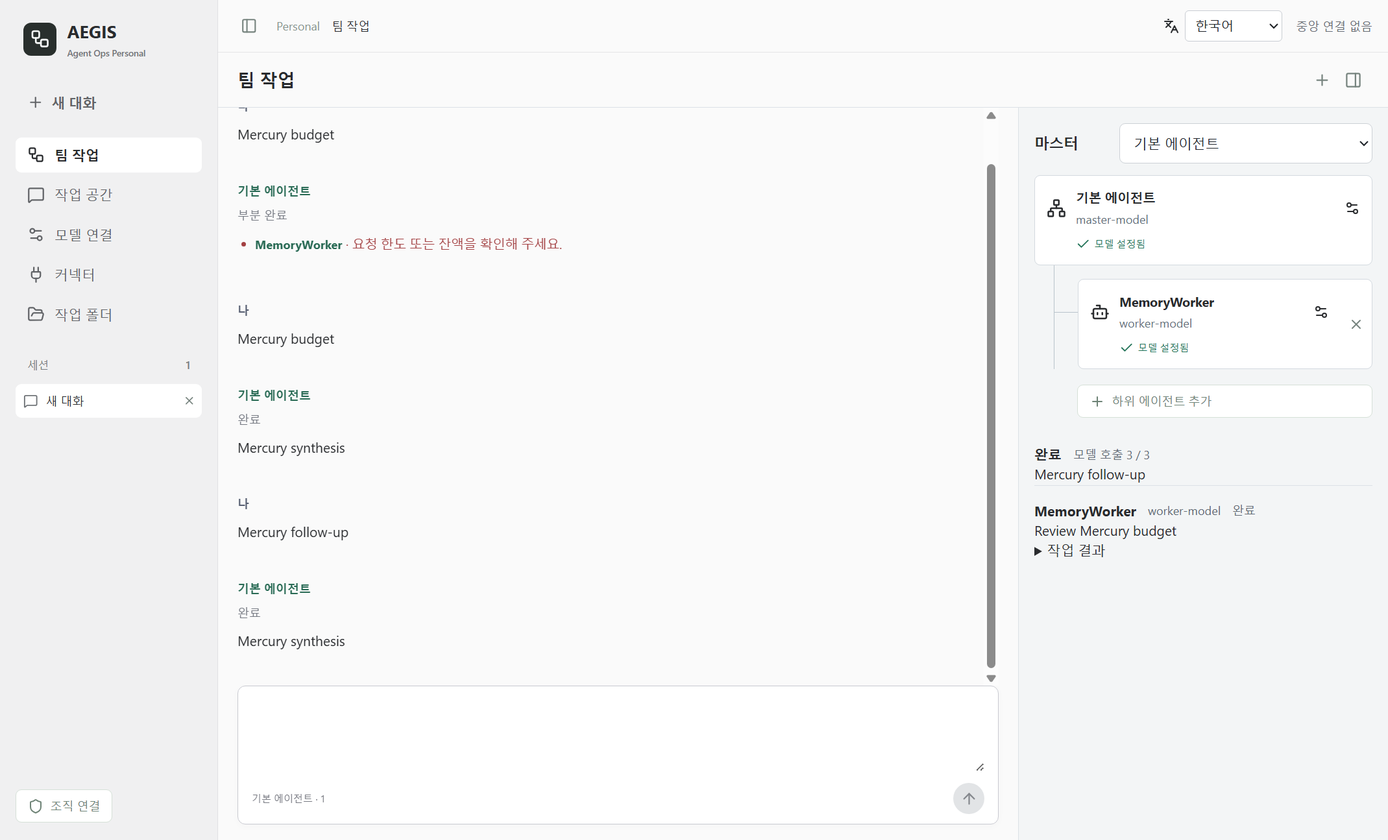
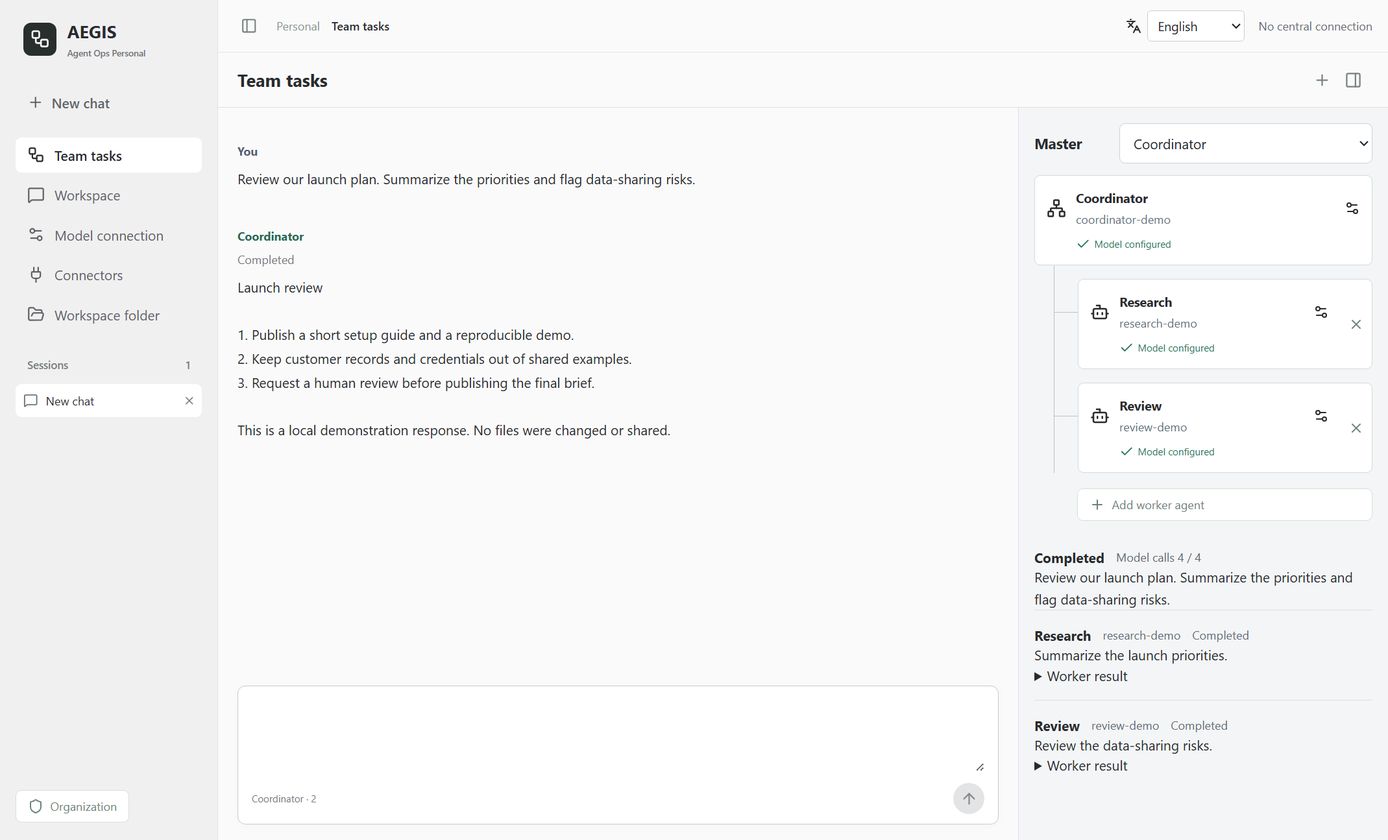
release: English product screenshots and non-preview desktop branding 0.5.13

diff --git a/README.ko.md b/README.ko.md
@@ -1,11 +1,11 @@
 # AEGIS Agent Ops Personal
 
-[![Windows checks](https://github.com/aegisintelmetry/agent-ops-public-preview/actions/workflows/desktop-checks.yml/badge.svg)](https://github.com/aegisintelmetry/agent-ops-public-preview/actions/workflows/desktop-checks.yml)
+[![Windows checks](https://github.com/aegisintelmetry/agent-ops-personal/actions/workflows/desktop-checks.yml/badge.svg)](https://github.com/aegisintelmetry/agent-ops-personal/actions/workflows/desktop-checks.yml)
 [![License: Apache-2.0](https://img.shields.io/badge/License-Apache--2.0-green.svg)](LICENSE)
 
 **내 모델로 구성하는 에이전트 팀, 직접 선택하는 메모리.**
 
-[English](README.md) | [Windows 다운로드](https://github.com/aegisintelmetry/agent-ops-public-preview/releases/tag/v0.5.12-preview) | [보안 신고](SECURITY.md)
+[English](README.md) | [Windows 다운로드](https://github.com/aegisintelmetry/agent-ops-personal/releases/tag/v0.5.13) | [보안 신고](SECURITY.md)
 
 여러 언어 모델과 대화하고, 텍스트 작업을 에이전트 팀으로 나누고, 필요한 기억을 직접 관리하는 **AEGIS의 오픈소스 데스크톱 프로젝트**입니다.
 
@@ -13,7 +13,7 @@
 
 ![팀 대화와 마스터·작업자 트리](docs/assets/team-workspace.png)
 
-*자동 UI 시험에서 촬영한 실제 앱 화면입니다. 이름·모델 ID·응답과 한도 오류는 합성 테스트 데이터이며, 실제 공급자 응답이나 성능 측정 결과가 아닙니다.*
+*자동 UI 시험에서 촬영한 실제 앱 화면입니다. 이름·모델 ID·응답은 합성 테스트 데이터이며, 실제 공급자 응답이나 성능 측정 결과가 아닙니다.*
 
 ## 목차
 
@@ -45,13 +45,13 @@
 
 ## 설치와 시작
 
-1. [릴리스 페이지](https://github.com/aegisintelmetry/agent-ops-public-preview/releases/tag/v0.5.12-preview)에서 `AEGIS-Agent-Ops-Setup-0.5.12-preview.exe`를 내려받습니다.
+1. [릴리스 페이지](https://github.com/aegisintelmetry/agent-ops-personal/releases/tag/v0.5.13)에서 `AEGIS-Agent-Ops-Setup-0.5.13.exe`를 내려받습니다.
 2. Windows x64에 설치하고 **Personal**을 선택합니다.
 3. 에이전트의 모델 연결을 설정한 뒤 대화하거나 팀을 구성합니다.
 
 설치본은 로컬 코어를 포함하므로 실행을 위해 Python·Node를 별도로 설치할 필요는 없습니다. Codex 연결에는 별도의 Codex CLI 또는 VS Code Codex 확장이 필요합니다.
 
-**미서명 프리뷰입니다.** 중요한 업무나 민감한 정보에 사용하기 전에 아래 제한을 확인해 주세요.
+**Windows 설치 파일은 미서명입니다.** 중요한 업무나 민감한 정보에 사용하기 전에 아래 제한을 확인해 주세요.
 
 현재 배포 대상은 Windows x64입니다. macOS·Linux 설치본은 제공하거나 검증하지 않았습니다. Personal에는 중앙 MCP 서버, 조직 등록, AEGIS 구독이 필요하지 않습니다. 사용 가능한 모델 연결은 직접 준비해야 하며 공급자 이용료는 앱에 포함되지 않습니다.
 
@@ -209,7 +209,7 @@ npm start
 powershell -NoProfile -File apps/desktop/build-windows.ps1
 ```
 
-버그 재현, 작은 범위의 개선 PR, 실제로 유용했던 작업 사례를 환영합니다. [기여 안내](CONTRIBUTING.md)와 [Windows CI](https://github.com/aegisintelmetry/agent-ops-public-preview/actions/workflows/desktop-checks.yml)를 참고하세요.
+버그 재현, 작은 범위의 개선 PR, 실제로 유용했던 작업 사례를 환영합니다. [기여 안내](CONTRIBUTING.md)와 [Windows CI](https://github.com/aegisintelmetry/agent-ops-personal/actions/workflows/desktop-checks.yml)를 참고하세요.
 
 ## 문서와 다음 단계
 
@@ -219,13 +219,13 @@ powershell -NoProfile -File apps/desktop/build-windows.ps1
 | [Google 연결](docs/personal-google-accounts.md) | Desktop OAuth 설정과 인증 정보 경계 |
 | [모듈 경계](docs/core-boundary.md) | 공개 제품과 비공개 운영의 구분 |
 | [기여 안내](CONTRIBUTING.md) | 개발과 안전한 이슈·PR 작성 |
-| [릴리스 점검](docs/public-release.md) | 프리뷰 검증과 남은 운영 확인 |
+| [릴리스 점검](docs/public-release.md) | 릴리스 검증과 남은 운영 확인 |
 | [공개 이력](docs/public-history.md) | 제품 이력을 선별한 이유 |
 | [보안 정책](SECURITY.md) | 비공개 취약점 신고 |
 
-우선 검증 대상은 새 PC 설치와 실제 공급자·계정 연결이며, 특히 Google OAuth의 실제 사용 흐름을 확인해야 합니다. 대화 영속 저장·커넥터 확장·도구 실행은 이후 검토할 수 있는 방향이지 **이번 프리뷰의 제공 기능이나 출시 일정 약속이 아닙니다.** 외부 쓰기 작업을 허용하기 전에 권한과 데이터 전달 경계를 설계해야 합니다.
+우선 검증 대상은 새 PC 설치와 실제 공급자·계정 연결이며, 특히 Google OAuth의 실제 사용 흐름을 확인해야 합니다. 대화 영속 저장·커넥터 확장·도구 실행은 이후 검토할 수 있는 방향이지 **이번 릴리스의 제공 기능이나 출시 일정 약속이 아닙니다.** 외부 쓰기 작업을 허용하기 전에 권한과 데이터 전달 경계를 설계해야 합니다.
 
-`docs/`의 이전 구현 기록은 각각의 개발 단계를 설명합니다. 현재 프리뷰의 범위는 이 README를 기준으로 하며 과거 시험 개수나 잔여 작업 목록은 현재 지원표가 아닙니다.
+`docs/`의 이전 구현 기록은 각각의 개발 단계를 설명합니다. 현재 릴리스의 범위는 이 README를 기준으로 하며 과거 시험 개수나 잔여 작업 목록은 현재 지원표가 아닙니다.
 
 ## 이력과 공개 범위
 
@@ -237,7 +237,7 @@ powershell -NoProfile -File apps/desktop/build-windows.ps1
 
 ## 보안과 라이선스
 
-**초기 테스트·개발 참여자를 모집합니다.** [참여 안내](docs/community-invitation.md)를 읽고 [Discussions](https://github.com/aegisintelmetry/agent-ops-public-preview/discussions)에서 질문과 보안·통제 설계 의견을 나눠 주세요. 계획 중인 권한·감사 기능은 현재 제공 보장이 아닙니다. [행동강령](CODE_OF_CONDUCT.md)을 지켜 주세요.
+**초기 테스트·개발 참여자를 모집합니다.** [참여 안내](docs/community-invitation.md)를 읽고 [Discussions](https://github.com/aegisintelmetry/agent-ops-personal/discussions)에서 질문과 보안·통제 설계 의견을 나눠 주세요. 계획 중인 권한·감사 기능은 현재 제공 보장이 아닙니다. [행동강령](CODE_OF_CONDUCT.md)을 지켜 주세요.
 
 취약점은 공개 이슈 대신 **contact@aegistelemetry.com**으로 비공개 신고해 주세요. 키·토큰·개인 대화를 첨부하지 마세요. [보안 정책](SECURITY.md)을 확인하세요.
 

diff --git a/README.md b/README.md
@@ -1,11 +1,11 @@
 # AEGIS Agent Ops Personal
 
-[![Windows checks](https://github.com/aegisintelmetry/agent-ops-public-preview/actions/workflows/desktop-checks.yml/badge.svg)](https://github.com/aegisintelmetry/agent-ops-public-preview/actions/workflows/desktop-checks.yml)
+[![Windows checks](https://github.com/aegisintelmetry/agent-ops-personal/actions/workflows/desktop-checks.yml/badge.svg)](https://github.com/aegisintelmetry/agent-ops-personal/actions/workflows/desktop-checks.yml)
 [![License: Apache-2.0](https://img.shields.io/badge/License-Apache--2.0-green.svg)](LICENSE)
 
 **Your models. A visible agent team. Memory you choose.**
 
-[한국어](README.ko.md) | [Windows download](https://github.com/aegisintelmetry/agent-ops-public-preview/releases/tag/v0.5.12-preview) | [Security](SECURITY.md)
+[한국어](README.ko.md) | [Windows download](https://github.com/aegisintelmetry/agent-ops-personal/releases/tag/v0.5.13) | [Security](SECURITY.md)
 
 An open-source desktop project by **AEGIS** for working with multiple language models, coordinating text-based agent teams, and keeping explicit local memory.
 
@@ -13,7 +13,7 @@ An open-source desktop project by **AEGIS** for working with multiple language m
 
 ![Team conversation and coordinator/worker tree](docs/assets/team-workspace.png)
 
-*Actual desktop UI captured by an automated test. Names, model IDs, responses, and the quota failure are synthetic fixtures, not live provider results or a performance benchmark.*
+*Actual desktop UI captured by an automated test. Names, model IDs, and responses are synthetic fixtures, not live provider results or a performance benchmark.*
 
 ## Contents
 
@@ -46,7 +46,7 @@ For example, one worker can analyze a proposal while another critiques its assum
 
 ## Install
 
-Download `AEGIS-Agent-Ops-Setup-0.5.12-preview.exe` from the [release page](https://github.com/aegisintelmetry/agent-ops-public-preview/releases/tag/v0.5.12-preview).
+Download `AEGIS-Agent-Ops-Setup-0.5.13.exe` from the [release page](https://github.com/aegisintelmetry/agent-ops-personal/releases/tag/v0.5.13).
 
 1. Install on Windows x64 and open the app.
 2. Choose **Personal**. No AEGIS organization account or central server is required.
@@ -54,7 +54,7 @@ Download `AEGIS-Agent-Ops-Setup-0.5.12-preview.exe` from the [release page](http
 
 The installer bundles the local core; a separate Python or Node installation is not required to run it. The Codex connection requires a separately installed Codex CLI or VS Code Codex extension.
 
-**This is an unsigned preview**, not a production-ready release.
+**The Windows installer is unsigned.** Review the limitations below before using it for important work or sensitive data.
 
 Windows x64 is the distributed platform. macOS/Linux installers are not provided or validated in this release. Personal does not require a central MCP server, organization enrollment, or an AEGIS subscription. Bring your own eligible provider connection; model usage is not included with the app.
 
@@ -212,7 +212,7 @@ Build an installer from the repository root:
 powershell -NoProfile -File apps/desktop/build-windows.ps1
 ```
 
-See [contributing](CONTRIBUTING.md) and [Windows CI](https://github.com/aegisintelmetry/agent-ops-public-preview/actions/workflows/desktop-checks.yml).
+See [contributing](CONTRIBUTING.md) and [Windows CI](https://github.com/aegisintelmetry/agent-ops-personal/actions/workflows/desktop-checks.yml).
 
 ## Documentation and Next Steps
 
@@ -222,13 +222,13 @@ See [contributing](CONTRIBUTING.md) and [Windows CI](https://github.com/aegisint
 | [Google connections](docs/personal-google-accounts.md) | Desktop OAuth setup and credential boundaries |
 | [Module boundaries](docs/core-boundary.md) | Public product versus private operations |
 | [Contributing](CONTRIBUTING.md) | Development and safe issue/PR preparation |
-| [Release checks](docs/public-release.md) | Preview verification and outstanding operational checks |
+| [Release checks](docs/public-release.md) | Release verification and outstanding operational checks |
 | [Public history](docs/public-history.md) | Why this repository contains selected product history |
 | [Security policy](SECURITY.md) | Private vulnerability reporting |
 
-Near-term validation priorities are fresh-PC installation and real provider/account flows, particularly Google OAuth. Conversation persistence, broader connectors, and tool execution are possible future work, **not features included in this preview or promised release dates**. Permission and data-flow boundaries must be designed before enabling external writes.
+Near-term validation priorities are fresh-PC installation and real provider/account flows, particularly Google OAuth. Conversation persistence, broader connectors, and tool execution are possible future work, **not features included in this release or promised release dates**. Permission and data-flow boundaries must be designed before enabling external writes.
 
-Older implementation notes in `docs/` describe individual development stages. This README describes the current preview; historical test counts and pending items are not a current support matrix.
+Older implementation notes in `docs/` describe individual development stages. This README describes the current release; historical test counts and pending items are not a current support matrix.
 
 ## History and Scope
 
@@ -240,7 +240,7 @@ The source includes `apps/desktop`, the `agent_ops` client/core, and tests. Priv
 
 ## Feedback and Security
 
-**Early testers and contributors welcome:** read our [community invitation](docs/community-invitation.md) and join [Discussions](https://github.com/aegisintelmetry/agent-ops-public-preview/discussions). We are exploring security and control features openly; planned permissions and audit capabilities are not shipped guarantees. Please follow the [code of conduct](CODE_OF_CONDUCT.md).
+**Early testers and contributors welcome:** read our [community invitation](docs/community-invitation.md) and join [Discussions](https://github.com/aegisintelmetry/agent-ops-personal/discussions). We are exploring security and control features openly; planned permissions and audit capabilities are not shipped guarantees. Please follow the [code of conduct](CODE_OF_CONDUCT.md).
 
 Bug reports, focused pull requests, and useful real-world workflows are welcome. Include the app version, Windows version, and reproduction steps without credentials or private conversations.
 

diff --git a/apps/desktop/README.md b/apps/desktop/README.md
@@ -1,4 +1,4 @@
-# AEGIS Agent Ops Desktop Preview
+# AEGIS Agent Ops Desktop
 
 Windows-first desktop client over the independent `agent_ops` product core. Version 0.5.9 includes
 the Agent Ops workspace layout, centered composer and independent in-memory chat
@@ -15,12 +15,12 @@ It retains 0.4.2's immediate, redacted CLI policy errors instead of silent bridg
 timeouts, and distinguishes central-server input from the returned MCP endpoint.
 It retains 0.4.1's central deployment reporting and bounded service verification.
 It remains an
-unsigned local preview; a clean-PC installation against the real central server
+unsigned desktop build; a clean-PC installation against the real central server
 has not yet been validated.
 
-## Personal Preview
+## Personal
 
-The source preview now starts with a Personal / Enterprise selector. Personal
+The app starts with a Personal / Enterprise selector. Personal
 does not query the central profile registry or start the Python enterprise bridge.
 Enterprise keeps the existing enrollment and runner workflow. A mode switch is a
 local UI preference, not enterprise authentication or a permission grant.
@@ -141,7 +141,7 @@ Build from `apps/desktop` after `npm ci`:
 powershell -NoProfile -File .\build-windows.ps1
 ```
 
-Output: `release/AEGIS-Agent-Ops-Setup-0.5.9-preview.exe` (Windows x64, NSIS).
+Output: `release/AEGIS-Agent-Ops-Setup-0.5.13.exe` (Windows x64, NSIS).
 
 The language selector on the edition screen and app toolbar supports Korean and
 English. The desktop main process owns `userData/ui-preferences.json`; renderer
@@ -155,11 +155,11 @@ Packages include `resources/LICENSE`, `resources/NOTICE`, and the existing
 and history review described in `docs/public-release.md` at the repository root.
 The build uses an isolated `.build-venv`; it does not modify the operational
 Python environment. `-Unpacked` builds only the unpacked application.
-Use `-OutputDirectory release-preview` while another unpacked preview is running.
+Use `-OutputDirectory release-preview` while another unpacked build is running.
 Smoke tests accept its executable path through `BTK_DESKTOP_TEST_EXE`.
 
 - Per-user installation, no elevation or automatic launch after setup. The
-  installer is unsigned; it is a local preview, not a trusted publisher release.
+  installer is unsigned; its publisher identity has not been verified by a code-signing certificate.
 - Electron UI and a frozen Python core are bundled. Installed launch does not
   require Node or Python on PATH, or a development checkout to boot.
 - Existing CLI profiles and workspaces are read in place. No profiles, tokens,
@@ -334,7 +334,7 @@ provider requests. They do not require a separate repository or browser download
   Only the read-only context supplied by the app is available. CLI authentication
   stays local. Auth failures are surfaced, not interpreted as successful replies.
 - Other engines, including Codex, fail closed until their desktop permission
-  adapters are implemented and tested. This preview does not change the master
+  adapters are implemented and tested. This release does not change the master
   runner's model. It is not a remote MASTER conversation.
 - Completed responses are redacted before publication; generation status is live.
   Chat stays in window memory, with no new persistent session authority.
@@ -388,6 +388,6 @@ The shared-core product direction references [Hermes Desktop](https://hermes-age
 Real central enrollment + clean Windows install/uninstall validation, signed
 installer/update delivery, existing-PC migration, shared durable chat sessions,
 additional desktop chat adapters, governed action/approval UI and SSE/A2A console
-integration remain release gates. Building/testing this preview does not deploy
+integration remain release gates. Building/testing this release does not deploy
 to the fleet or register startup on the developer's PC. Central API/schema and
 production prompts remain unchanged.

diff --git a/docs/release-0.5.13.md b/docs/release-0.5.13.md
@@ -1,0 +1,44 @@
+# AEGIS Agent Ops 0.5.13
+
+Open-source desktop release. The Windows installer is unsigned; updates are manual.
+
+## Changes
+
+- English screenshots captured from the real desktop UI, using synthetic local
+  responses rather than live provider or customer data.
+- App, installer and release names no longer use Preview. The installer is
+  `AEGIS-Agent-Ops-Setup-0.5.13.exe` and the app is `AEGIS Agent Ops.exe`.
+- The public repository is now `aegisintelmetry/agent-ops-personal`.
+- Updated public documentation, download links and community messaging.
+- Kept the legacy application identifier and user-data directory for upgrade
+  compatibility. Historical releases retain their original names.
+
+## Verification
+
+- Node: 121 tests passed. Python: 108 tests passed.
+- Nine native UI smoke scripts passed.
+- English screenshots checked at desktop and narrow window sizes, with no
+  horizontal overflow, a visible composer, and no renderer errors.
+- Screenshot responses use four loopback fixture calls; no real model calls.
+- Packaged and installed core startup passed without Node or Python on PATH.
+- On the development PC, an actual NSIS upgrade from 0.5.12 to 0.5.13 passed.
+  The isolated test profile retained agents, models, encrypted key, team, role,
+  memory and language. One loopback request verified key decryption; this is
+  not evidence of a live provider login or pre-existing user settings retention.
+- Installed application and shortcut names no longer contain Preview. The old
+  installation directory is retained when upgrading an existing installation.
+
+## Limits
+
+This release does not add security certification, code signing, or a complete
+enterprise policy engine. The installer remains `NotSigned`. Clean-PC installation
+and actual provider/account flows still require separate validation. Conversations
+remain in memory and are not restored after restarting the app.
+
+## 한국어
+
+- 공개 이미지를 영어 UI로 새로 촬영했습니다. 실제 앱 화면이며 응답은 로컬 시험 데이터입니다.
+- 앱·설치 파일·릴리스 이름에서 Preview 표시를 제거했습니다.
+- 공개 저장소 이름은 `agent-ops-personal`입니다.
+- 기존 앱 식별자와 데이터 경로는 업데이트 호환성을 위해 유지했습니다.
+- 설치 파일은 미서명이며, 보안 인증이나 기업용 정책 엔진 완성을 의미하지 않습니다.

diff --git a/docs/community-invitation.md b/docs/community-invitation.md
@@ -7,7 +7,7 @@ AEGIS Agent Ops Personal은 여러 모델을 연결하면서 에이전트의 권
 AEGIS의 중심은 Security FDE이며, Personal은 함께 검증하고 발전시키는 공개 프로젝트입니다.
 기업 계약이나 조직 계정 없이 Personal에 참여할 수 있습니다.
 
-**아직 초기 프리뷰입니다. 완성된 보안 제품이나 기업용 통제 체계로 소개하지 않습니다.**
+**개발 중인 오픈소스 프로젝트입니다. 완성된 보안 제품이나 기업용 통제 체계로 소개하지 않습니다.**
 작동하지 않는 조합과 미검증 흐름이 있으며 중요한 업무·민감한 자료 대신 합성 데이터로 시험해 주세요.
 
 ## 현재 제공하는 기반
@@ -43,14 +43,14 @@ Windows 사용자, 개발자, 보안 실무자 5~10명부터 피드백을 받고
 
 ## 시작하기
 
-[모집 토론에 참여하기 / Join the recruitment discussion](https://github.com/aegisintelmetry/agent-ops-public-preview/discussions/3)
+[모집 토론에 참여하기 / Join the recruitment discussion](https://github.com/aegisintelmetry/agent-ops-personal/discussions/3)
 
-- [설치·현재 지원 범위](https://github.com/aegisintelmetry/agent-ops-public-preview#readme)
-- [다운로드](https://github.com/aegisintelmetry/agent-ops-public-preview/releases/tag/v0.5.10-preview)
-- [질문과 제안](https://github.com/aegisintelmetry/agent-ops-public-preview/discussions)
-- [버그 신고](https://github.com/aegisintelmetry/agent-ops-public-preview/issues/new/choose)
+- [설치·현재 지원 범위](https://github.com/aegisintelmetry/agent-ops-personal#readme)
+- [다운로드](https://github.com/aegisintelmetry/agent-ops-personal/releases/latest)
+- [질문과 제안](https://github.com/aegisintelmetry/agent-ops-personal/discussions)
+- [버그 신고](https://github.com/aegisintelmetry/agent-ops-personal/issues/new/choose)
 
-설치 파일은 미서명 프리뷰입니다. 새 PC 설치와 실제 Google OAuth 연결은 추가 검증 대상입니다.
+설치 파일은 미서명입니다. 새 PC 설치와 실제 Google OAuth 연결은 추가 검증 대상입니다.
 채팅은 앱 종료 후 복원되지 않으며, 모델 사용료·계정 권한은 공급자에 따릅니다.
 선택한 클라우드 모델에는 요청 내용과 적용된 메모리가 전송됩니다.
 

diff --git a/docs/provenance.md b/docs/provenance.md
@@ -9,8 +9,8 @@ The project's declared copyright notice is `Copyright (c) 2026 aegisintelmetry`.
 Third-party components and community contributions retain their applicable notices.
 This statement does not claim authorship of third-party dependencies.
 
-- Official source: https://github.com/aegisintelmetry/agent-ops-public-preview
-- Official releases: https://github.com/aegisintelmetry/agent-ops-public-preview/releases
+- Official source: https://github.com/aegisintelmetry/agent-ops-personal
+- Official releases: https://github.com/aegisintelmetry/agent-ops-personal/releases
 - Contact: contact@aegistelemetry.com
 
 The publisher identifier is not a verification of a legal entity or a registered trademark.
@@ -62,7 +62,7 @@ interpret successful CI as proof that the downloadable installer was built by CI
 ## Signing and Evidence Policy
 
 The community documentation commit
-[`b378145`](https://github.com/aegisintelmetry/agent-ops-public-preview/commit/b378145a172f87e5a561d0b84575a363487f8eee)
+[`b378145`](https://github.com/aegisintelmetry/agent-ops-personal/commit/b378145a172f87e5a561d0b84575a363487f8eee)
 was created through GitHub's commit API. GitHub's verification endpoint returned
 `verified: true`, `reason: valid`. This is a GitHub-managed commit signature,
 not an independently managed publisher key, signed release tag, or Windows installer signature.

diff --git a/docs/public-release.md b/docs/public-release.md
@@ -2,7 +2,7 @@
 
 ## 0.5.10 공개 기록
 
-- 공개 대상은 `aegisintelmetry/agent-ops-public-preview`의 선별 제품 이력입니다.
+- 공개 대상은 `aegisintelmetry/agent-ops-personal`의 선별 제품 이력입니다.
 - 원본 전체 이력 및 운영 하네스 저장소는 비공개로 유지합니다.
 - 초기 하네스 커밋은 이 저장소에 존재하지 않음을 GitHub API로 확인했습니다.
 - 선별 11개 커밋 비밀값 검사 탐지 0건, Windows CI 35728422763 성공을 확인했습니다.
@@ -24,7 +24,7 @@
 
 - 기존 코드의 공개 권한, 제작사 명의 확정.
 - AEGIS 이름의 사용 권리와 새 GitHub 소유 계정/조직 확정.
-- 보안 신고 주소 `contact@aegistelemetry.com`의 실제 수신 확인. 최신 0.5.x 프리뷰 지원 범위는 SECURITY.md 참조.
+- 보안 신고 주소 `contact@aegistelemetry.com`의 실제 수신 확인. 최신 0.5.x 릴리스 지원 범위는 SECURITY.md 참조.
 - 실제 배포 의존성의 라이선스/고지 포함 여부 검토.
 
 법적 명의나 공개 권한은 빌드 스크립트가 추정하지 않습니다.

diff --git a/SECURITY.md b/SECURITY.md
@@ -1,6 +1,6 @@
 # 보안
 
-보안 검토 대상은 최신 0.5.x 프리뷰입니다. 이전 프리뷰는 최신 버전으로 업데이트해 주세요.
+보안 검토 대상은 최신 0.5.x 릴리스입니다. 이전 버전은 최신 버전으로 업데이트해 주세요.
 취약점은 `contact@aegistelemetry.com`으로 비공개 신고해 주세요.
 제목에 `[Agent Ops Security]`를 적고 영향 버전과 비밀값을 제거한 재현 절차를 포함해 주세요.
 보안 수정의 응답 기한이나 장기 지원은 아직 보장하지 않습니다.

diff --git a/BRANDING.md b/BRANDING.md
@@ -1,7 +1,7 @@
 # Project Identity / 프로젝트 식별
 
 The official upstream for AEGIS Agent Ops Personal is:
-https://github.com/aegisintelmetry/agent-ops-public-preview
+https://github.com/aegisintelmetry/agent-ops-personal
 
 Forks and modifications are welcome under [Apache-2.0](LICENSE). Describe your
 changes and distinguish your distribution from the upstream project. Do not
